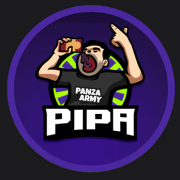
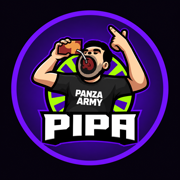
Refresh studio portraits and swap assets to WebP variants

diff --git a/app/redesign.css b/app/redesign.css
@@ -59,12 +59,13 @@ h2 { letter-spacing:-.015em; text-wrap:balance; }
 .stream-lab-card { background:linear-gradient(145deg,#26143e,#120b20); }
 .facts article { border-bottom:1px solid var(--line); padding-block:20px; }
 .community-feature { border-radius:8px; box-shadow:none; border-color:var(--line); }
-.community-feature-media img { width:100%; height:100%; object-fit:cover; }
+.community-feature-media { aspect-ratio:3/2; background:#07050d; }
+.community-feature-media img { display:block; width:100%; height:100%; object-fit:contain; }
 .community-feature-copy { background:var(--panel); }
 .contact { margin:50px 5.5vw; border:1px solid var(--line); border-radius:8px; background:radial-gradient(ellipse at right,rgba(109,53,219,.25),transparent 70%),var(--panel); }
 .store-art { max-width:1240px; width:calc(100% - 48px); margin:40px auto; min-height:410px; border:1px solid var(--line); border-radius:8px; overflow:hidden; position:relative; display:flex; align-items:center; background:#07050d; }
-.store-art > img { position:absolute; inset:0 0 0 auto; width:65%; height:100%; object-fit:cover; }
-.store-art::after { content:""; position:absolute; inset:0; background:linear-gradient(90deg,#07050d 12%,rgba(7,5,13,.9) 30%,transparent 70%); }
+.store-art > img { position:absolute; inset:0 0 0 auto; width:50%; height:100%; object-fit:contain; }
+.store-art::after { content:""; position:absolute; inset:0; background:linear-gradient(90deg,#07050d 5%,transparent 55%); pointer-events:none; }
 .store-art > div { position:relative; z-index:1; padding:45px; }
 .store-art h1 { font-family:var(--font-display); font-size:clamp(42px,5vw,70px); line-height:1; margin:20px 0 28px; }
 .store-art em { font-style:normal; color:var(--acid); }
@@ -109,8 +110,8 @@ h2 { letter-spacing:-.015em; text-wrap:balance; }
  .argentina { grid-template-columns:1fr; gap:30px; }
  .section-grid > * { grid-column:1/-1; }
  .store-art { width:calc(100% - 32px); margin:24px auto; padding-top:210px; min-height:0; }
- .store-art > img { top:0; width:100%; height:290px; }
- .store-art::after { background:linear-gradient(0deg,#07050d 30%,transparent 85%); }
+ .store-art > img { top:0; width:100%; height:230px; }
+ .store-art::after { background:none; }
  .store-art > div { padding:24px; }
  .store-art h1 { font-size:42px; }
  .cmd-topbar { padding:14px 16px; }
@@ -211,9 +212,9 @@ h2 { letter-spacing:-.015em; text-wrap:balance; }
  .discord-invite-button { width:100%; }
 }
 
-/* Official national-team portrait, displayed unchanged over native type layers. */
+/* Recreated studio portrait: opaque fabric and full uncropped framing. */
 .argentina-official-portrait { isolation:isolate; aspect-ratio:3/4; background:radial-gradient(ellipse at 50% 45%,#522294 0%,#170d2a 60%,#090610 100%); }
-.argentina-photo-3d-card.argentina-official-portrait > img { position:absolute; z-index:2; width:100%; height:100%; left:0; bottom:0; object-fit:contain; object-position:bottom center; filter:drop-shadow(0 0 24px #85cfff33); }
+.argentina-photo-3d-card.argentina-official-portrait > img { position:absolute; z-index:2; width:100%; height:100%; left:0; bottom:0; object-fit:contain; object-position:bottom center; }
 .argentina-portrait-type { position:absolute; z-index:1; inset:9% 0 auto; text-align:center; font:900 clamp(90px,10vw,170px)/1 var(--font-display); letter-spacing:.025em; color:#7035b755; -webkit-text-stroke:1px #b38be9; text-shadow:4px 4px #31174e; pointer-events:none; }
 .argentina-portrait-type span { display:block; margin-top:16px; font:700 clamp(14px,1.7vw,24px)/1 var(--font-body); letter-spacing:.25em; color:#b5dcf4; -webkit-text-stroke:0; text-shadow:none; }
 .argentina-photo-source { display:block; margin-top:12px; color:var(--muted); font-size:11px; text-align:center; text-underline-offset:4px; }

diff --git a/app/page.tsx b/app/page.tsx
@@ -280,11 +280,12 @@ export default function Home() {
         <section className="argentina" id="argentina" data-reveal>
           <div className="argentina-photo-3d-container">
             <TiltCard3D maxTilt={12} glare={true} className="argentina-photo-3d-card argentina-official-portrait">
-              <div className="argentina-portrait-type" aria-hidden="true">PIPAA<span>ARGENTINA</span></div>
               <img
-                src="./pipaa-argentina-pnc-2026.png"
-                alt="Foto oficial de PIPAA con la camiseta celeste y blanca de Argentina en la PUBG Nations Cup 2026"
-                width="896"
+                src="./pipaa-argentina-studio.webp"
+                srcSet="./pipaa-argentina-studio-small.webp 480w, ./pipaa-argentina-studio.webp 900w"
+                sizes="(max-width: 768px) calc(100vw - 48px), 480px"
+                alt="Retrato recreado de PIPAA con la camiseta de Argentina, basado en la foto de PUBG Esports"
+                width="900"
                 height="1200"
                 loading="lazy"
                 decoding="async"
@@ -294,7 +295,7 @@ export default function Home() {
                 <strong>#5</strong>
               </div>
             </TiltCard3D>
-            <a className="argentina-photo-source" href="https://pubgesports.com/en/teams/762" target="_blank" rel="noreferrer">Foto oficial · PUBG Esports / PNC 2026 ↗</a>
+            <a className="argentina-photo-source" href="https://pubgesports.com/en/teams/762" target="_blank" rel="noreferrer">Retrato recreado · Referencia: PUBG Esports ↗</a>
           </div>
           <div className="argentina-copy">
             <p className="eyebrow sky">EL PRO PLAYER QUE CONQUISTÓ EL STREAMING · TOP 5 MUNDIAL</p>
@@ -723,13 +724,13 @@ export default function Home() {
           <article className="community-feature" data-reveal>
             <div className="community-feature-media">
               <TiltCard3D maxTilt={7} glare={true} style={{ width: "100%", height: "100%" }}>
-                <img src="./panza-army-3d.png" alt="Panza Army en letras metálicas tridimensionales con iluminación lima" width="1536" height="1024" loading="lazy" decoding="async" />
+                <img src="./panza-army-studio.webp" srcSet="./panza-army-studio-small.webp 768w, ./panza-army-studio.webp 1536w" sizes="(max-width: 768px) calc(100vw - 48px), 900px" alt="Panza Army en letras metálicas violetas con detalles lima" width="1536" height="1024" loading="lazy" decoding="async" />
                 <span className="community-feature-scan" aria-hidden="true" />
               </TiltCard3D>
             </div>
             <div className="community-feature-copy">
               <div className="community-feature-label"><span>07</span> LA COMUNIDAD</div>
-              <img className="community-avatar" src="./pipa-avatar.webp" alt="Logo de PIPAA y Panza Army" width="350" height="349" loading="lazy" decoding="async" />
+              <img className="community-avatar" src="./pipa-avatar-v2.webp" alt="Logo de PIPAA y Panza Army" width="512" height="512" loading="lazy" decoding="async" />
               <div className="community-feature-title">
                 <p className="eyebrow">MÁS QUE UN CHAT</p>
                 <h3>PANZA<br /><em>ARMY.</em></h3>

diff --git a/app/components/hero-layered.css b/app/components/hero-layered.css
@@ -11,10 +11,11 @@
 }
 .hero-type-outline { color:#51218d; -webkit-text-stroke:1px #a987dd; }
 .hero-portrait-stage { position:absolute; z-index:2; top:102px; bottom:0; left:44%; right:1%; display:flex; justify-content:center; align-items:flex-end; pointer-events:none; }
-.hero-portrait-cutout {
- display:block; height:100%; width:auto; max-width:none; aspect-ratio:2/3; object-fit:contain; object-position:bottom;
- /* Inset contour follows the generated RGB portrait without altering the source. */
- clip-path:polygon(48% 4.5%,42% 5.1%,37% 7%,34% 10%,32% 13%,31.7% 16%,32.5% 20%,33.3% 23%,33.4% 26%,35% 30%,38% 33%,40.5% 34.5%,40.5% 37.6%,37% 39.4%,31% 40.8%,25% 42.4%,18% 44.3%,12% 46.7%,8.5% 49%,6.5% 53%,4% 59%,2.8% 65%,2% 72%,3% 80%,5% 85%,8.4% 89%,14.7% 91%,13.5% 94%,14% 97%,16% 100%,85.5% 100%,85.5% 96%,84.7% 93%,85.5% 90.8%,91.5% 89%,94.3% 86%,95.5% 82%,96.5% 76%,96.7% 70%,96.2% 65%,94.5% 59%,92.7% 53%,90.5% 49%,87% 46.8%,82% 44.8%,75% 42.7%,68% 40.8%,62.8% 39.2%,60.5% 37.7%,60.5% 34%,63% 31%,65% 27%,65.5% 24%,65% 21%,65.8% 18%,65.3% 14%,64% 11%,61% 8%,57% 6%,52% 4.7%);
+.hero-portrait-stage::before { content:""; position:absolute; inset:-35px -45px; background:radial-gradient(ellipse at center,#07050d 35%,#07050de6 52%,transparent 73%); }
+.hero-portrait-studio {
+ position:relative; display:block; height:100%; width:auto; max-width:none; aspect-ratio:2/3; object-fit:contain; object-position:bottom;
+ mask-image:linear-gradient(0deg,transparent,#000 10%,#000 94%,transparent),linear-gradient(90deg,transparent,#000 7%,#000 93%,transparent);
+ mask-composite:intersect;
 }
 .hero-scene-fade { position:absolute; inset:0; z-index:3; pointer-events:none; background:linear-gradient(90deg,#07050d 0%,#07050dcc 28%,transparent 51%),linear-gradient(0deg,#07050d 0%,transparent 21%); }
 .hero-layered .hero-floating-badge { z-index:6; bottom:70px; }

diff --git a/vite.config.ts b/vite.config.ts
@@ -14,7 +14,7 @@ const identityGraph = {
       name: "Leonardo Rafael Ruppel",
       alternateName: ["PIPAA", "Pipa_ARG"],
       description: "Jugador profesional argentino de PUBG, streamer y creador de la comunidad Panza Army.",
-      image: siteUrl ? `${siteUrl}/pipa-banner.webp` : undefined,
+      image: siteUrl ? `${siteUrl}/pipaa-studio.webp` : undefined,
       url: siteUrl || undefined,
       nationality: { "@type": "Country", name: "Argentina" },
       jobTitle: ["Jugador profesional de PUBG", "Streamer", "Creador de contenido"],
@@ -49,12 +49,12 @@ function seoFiles() {
       const canonical = siteUrl
         ? `<link rel="canonical" href="${siteUrl}/" />\n    <meta property="og:url" content="${siteUrl}/" />`
         : "";
-      const imageUrl = siteUrl ? `${siteUrl}/og-v2.jpg` : "./og-v2.jpg";
+      const imageUrl = siteUrl ? `${siteUrl}/og-v3.jpg` : "./og-v3.jpg";
       const structuredData = `<script type="application/ld+json">${JSON.stringify(identityGraph)}</script>`;
 
       return html
         .replace("<!-- SEO_RUNTIME -->", `${canonical}\n    ${structuredData}`)
-        .replaceAll("./og-v2.jpg", imageUrl);
+        .replaceAll("./og-v3.jpg", imageUrl);
     },
     closeBundle() {
       const dist = resolve("dist");

diff --git a/index.html b/index.html
@@ -16,15 +16,15 @@
     <meta property="og:type" content="website" />
     <meta property="og:locale" content="es_AR" />
     <meta property="og:site_name" content="PIPAA" />
-    <meta property="og:image" content="./og-v2.jpg" />
+    <meta property="og:image" content="./og-v3.jpg" />
     <meta name="twitter:card" content="summary_large_image" />
     <meta name="twitter:title" content="PIPAA — Jugador profesional de PUBG" />
     <meta name="twitter:description" content="Selección Argentina · Creador de Panza Army" />
-    <meta name="twitter:image" content="./og-v2.jpg" />
+    <meta name="twitter:image" content="./og-v3.jpg" />
     <meta name="twitter:site" content="@Pipa_arg" />
     <!-- SEO_RUNTIME -->
     <link rel="icon" type="image/png" sizes="32x32" href="./favicon-32x32.png" />
-    <link rel="icon" type="image/webp" href="./pipa-avatar.webp" />
+    <link rel="icon" type="image/webp" href="./pipa-avatar-v2.webp" />
     <link rel="apple-touch-icon" sizes="180x180" href="./apple-touch-icon.png" />
     <link rel="manifest" href="./site.webmanifest" />
     <title>PIPAA (Pipa_ARG) — Jugador profesional argentino de PUBG</title>

diff --git a/comandos/index.html b/comandos/index.html
@@ -15,14 +15,14 @@
     <meta property="og:type" content="website" />
     <meta property="og:locale" content="es_AR" />
     <meta property="og:site_name" content="PIPAA" />
-    <meta property="og:image" content="../og-v2.jpg" />
+    <meta property="og:image" content="../og-v3.jpg" />
     <meta name="twitter:card" content="summary_large_image" />
     <meta name="twitter:title" content="PanzaBot & Comandos Troll — PIPAA" />
     <meta name="twitter:description" content="Simulador de chat, soundboard y comandos troll de la Panza Army." />
-    <meta name="twitter:image" content="../og-v2.jpg" />
+    <meta name="twitter:image" content="../og-v3.jpg" />
     <meta name="twitter:site" content="@Pipa_arg" />
     <link rel="icon" type="image/png" sizes="32x32" href="../favicon-32x32.png" />
-    <link rel="icon" type="image/webp" href="../pipa-avatar.webp" />
+    <link rel="icon" type="image/webp" href="../pipa-avatar-v2.webp" />
     <link rel="apple-touch-icon" sizes="180x180" href="../apple-touch-icon.png" />
     <link rel="manifest" href="../site.webmanifest" />
     <title>PanzaBot & Comandos Troll — PIPAA (Pipa_ARG)</title>

diff --git a/app/comandos/page.tsx b/app/comandos/page.tsx
@@ -379,7 +379,7 @@ export default function ComandosPage() {
         </div>
       </header>
 
-      <div className="store-art"><img src="../panza-army-3d.png" alt="Panza Army: letras 3D de metal y luz lima" width="1536" height="1024" /><div><p className="eyebrow">EL CHAT TAMBIÉN JUEGA</p><h1>Tu próximo movimiento.<br /><em>Su peor sorpresa.</em></h1><a className="button button-primary" href="#catalogo">Explorar comandos ↓</a></div></div>
+      <div className="store-art"><img src="../panza-army-studio.webp" srcSet="../panza-army-studio-small.webp 768w, ../panza-army-studio.webp 1536w" sizes="(max-width: 768px) calc(100vw - 32px), 620px" alt="Panza Army: letras 3D de metal y luz lima" width="1536" height="1024" /><div><p className="eyebrow">EL CHAT TAMBIÉN JUEGA</p><h1>Tu próximo movimiento.<br /><em>Su peor sorpresa.</em></h1><a className="button button-primary" href="#catalogo">Explorar comandos ↓</a></div></div>
       {/* ── Selector de Modo Principal: TIENDA vs CHAT ── */}
       <nav id="catalogo" className="cmd-mode-tabs" aria-label="Navegación de Comandos">
         <button

diff --git a/app/components/Hero.tsx b/app/components/Hero.tsx
@@ -50,15 +50,17 @@ export function Hero() {
 
         <div className="hero-orbital" aria-hidden="true"><i /><i /><i /><span>PLAYER 01 / PIPAA</span></div>
 
-        {/* The silhouette mask removes the generator's opaque backdrop. */}
+        {/* Studio background blends into the scene without cutting the silhouette. */}
         <div className="hero-portrait-stage">
           <img
-            src="./pipaa-front-cutout.png"
+            src="./pipaa-studio.webp"
+            srcSet="./pipaa-studio-small.webp 480w, ./pipaa-studio.webp 1024w"
+            sizes="(max-width: 768px) 260px, 520px"
             alt="PIPAA de frente, mirando a cámara, con brazos cruzados y buzo Panza Army"
             width="1024"
             height="1536"
             fetchPriority="high"
-            className="hero-portrait-cutout"
+            className="hero-portrait-studio"
           />
         </div>
         <div className="hero-scene-fade" aria-hidden="true" />

diff --git a/IMAGE-REFRESH.md b/IMAGE-REFRESH.md
@@ -1,0 +1,27 @@
+# Renovación de imágenes — 12 de septiembre de 2026
+
+Herramienta: image_gen integrada. Imágenes recreadas con referencias locales. No se utilizó la API/CLI.
+
+Los retratos finales tienen fondo de estudio opaco: la primera prueba de transparencia devolvió RGB con una cuadrícula dibujada y fue descartada. No se usan polígonos para recortar personas. Los originales quedan disponibles como referencia; la web consume los nuevos WebP con variantes pequeñas. El retrato Argentina es una recreación y así se indica en la página. Las miniaturas de YouTube conservan su correspondencia con los videos reales; el logotipo de navegación se conserva.
+
+## public/pipaa-studio.webp (+ -small)
+
+Use case: identity-preserve. Recreate a premium photographic website portrait of PIPAA, the exact man in reference 2 (official Argentina portrait). Reference 1 is clothing and smiling frontal crossed-arm pose only; reference 2 is primary identity, keep recognizable face, hair, beard, eyes, build, age. Black sweatshirt with exact white PANZA ARMY lettering. Full hair, shoulders and both elbows comfortably within frame, waist-up, centered, vertical 2:3. Natural skin texture, flattering soft studio key light and restrained purple and lime rim lighting. GENUINELY TRANSPARENT BACKGROUND with alpha, clean detailed hair and fabric edges. No checkerboard drawn into pixels, no background, no floor, no floating shadows, no glow outside silhouette. High quality professional portrait for dark esports website.
+
+Use case: identity-preserve. Edit target: this generated portrait. Keep exact person, face, pose, clothing, PANZA ARMY lettering, lighting and anatomy unchanged. Replace ALL checkerboard with a smooth seamless near-black purple photographic studio background color #07050d. OPAQUE photographic image, not transparent. No checkerboard anywhere. Background edges uniformly #07050d, soft restrained purple light behind shoulders only. Full hair and elbows in frame with comfortable margins. Premium natural editorial portrait. Vertical 2:3.
+
+## public/pipaa-argentina-studio.webp (+ -small)
+
+Use case: identity-preserve. Reference: supplied PIPAA Argentina player portrait. Recreate from scratch as premium photorealistic studio portrait maintaining the exact recognizable man, face, hairstyle, beard, eyes, build, crossed-arm pose and Argentina light blue/white jersey. Repair damaged/missing areas of jersey at neck and sleeve: continuous realistic opaque fabric. Preserve visible ARGENTINA and PNC 2026 text, small Argentina flag and jersey design. Opaque seamless near-black navy background #080d18 with subtle sky-blue studio light behind the shoulders. No transparency, no cutouts, no holes, no checkerboard, no additional text or logos. Vertical 3:4 composition, full head and BOTH elbows within frame, 8 percent clear breathing space around subject. Natural skin texture, professional soft studio lighting, tasteful and realistic, no exaggerated effects.
+
+## public/panza-army-studio.webp (+ -small)
+
+Use case: stylized-concept. Create from scratch premium esports community banner. Physical sculptural typography reading exactly PANZA on first line and ARMY on second line. Sophisticated deep amethyst satin metal, thin acid lime illuminated bevels, believable extrusion, soft studio reflections. Almost frontal perspective, very legible lettering. Seamless midnight purple background #07050d, restrained purple atmosphere, clean matte floor, no excessive smoke or visual clutter. Center entire sculpture in central 65 percent of image width and 65 percent height; generous dark margins on all sides so no letters touch edges. Landscape 3:2. No people, no extra words, no watermark. Professional streamer visual identity.
+
+## public/pipa-avatar-v2.webp; favicon-32x32.png; apple-touch-icon.png; icon-512x512.png
+
+Use case: style-transfer. Reference supplied is existing PIPA streamer mascot. Recreate clean high resolution esports mascot badge preserving same character identity and concept: cheerful dark-haired bearded man in black PANZA ARMY shirt drinking from a mate gourd with metal straw and lifting other hand, purple circular emblem with acid lime accents, large exact word PIPA below character. Crisp controlled illustrated linework, polished professional brand icon, simple strong shapes, no gritty textures. Entire circular badge fits within central 78 percent of square canvas, centered on opaque uniform midnight purple #07050d. Clear safe margins suitable for circular avatars and app icons. No additional text, no checkerboard. Square 1024x1024.
+
+## public/og-v3.jpg
+
+Use case: ads-marketing. Recreate professional social sharing cover for PIPAA streamer website. Reference is exact person identity and clothing to preserve. Wide landscape 1.905:1 aspect. Man on right 45 percent, entire head and shoulders visible, crossed arms black PANZA ARMY sweatshirt. Left 50 percent large highly legible exact typography PIPAA, below smaller exact PANZA ARMY, then tiny PUBG · STREAMING. Seamless near-black purple #07050d studio background, restrained amethyst illumination, slim lime graphic accent line. Clean editorial composition, generous safe margins, no extra text, no dates or awards, no watermark, no cutout artifacts or checkerboard. Natural photographic face.
